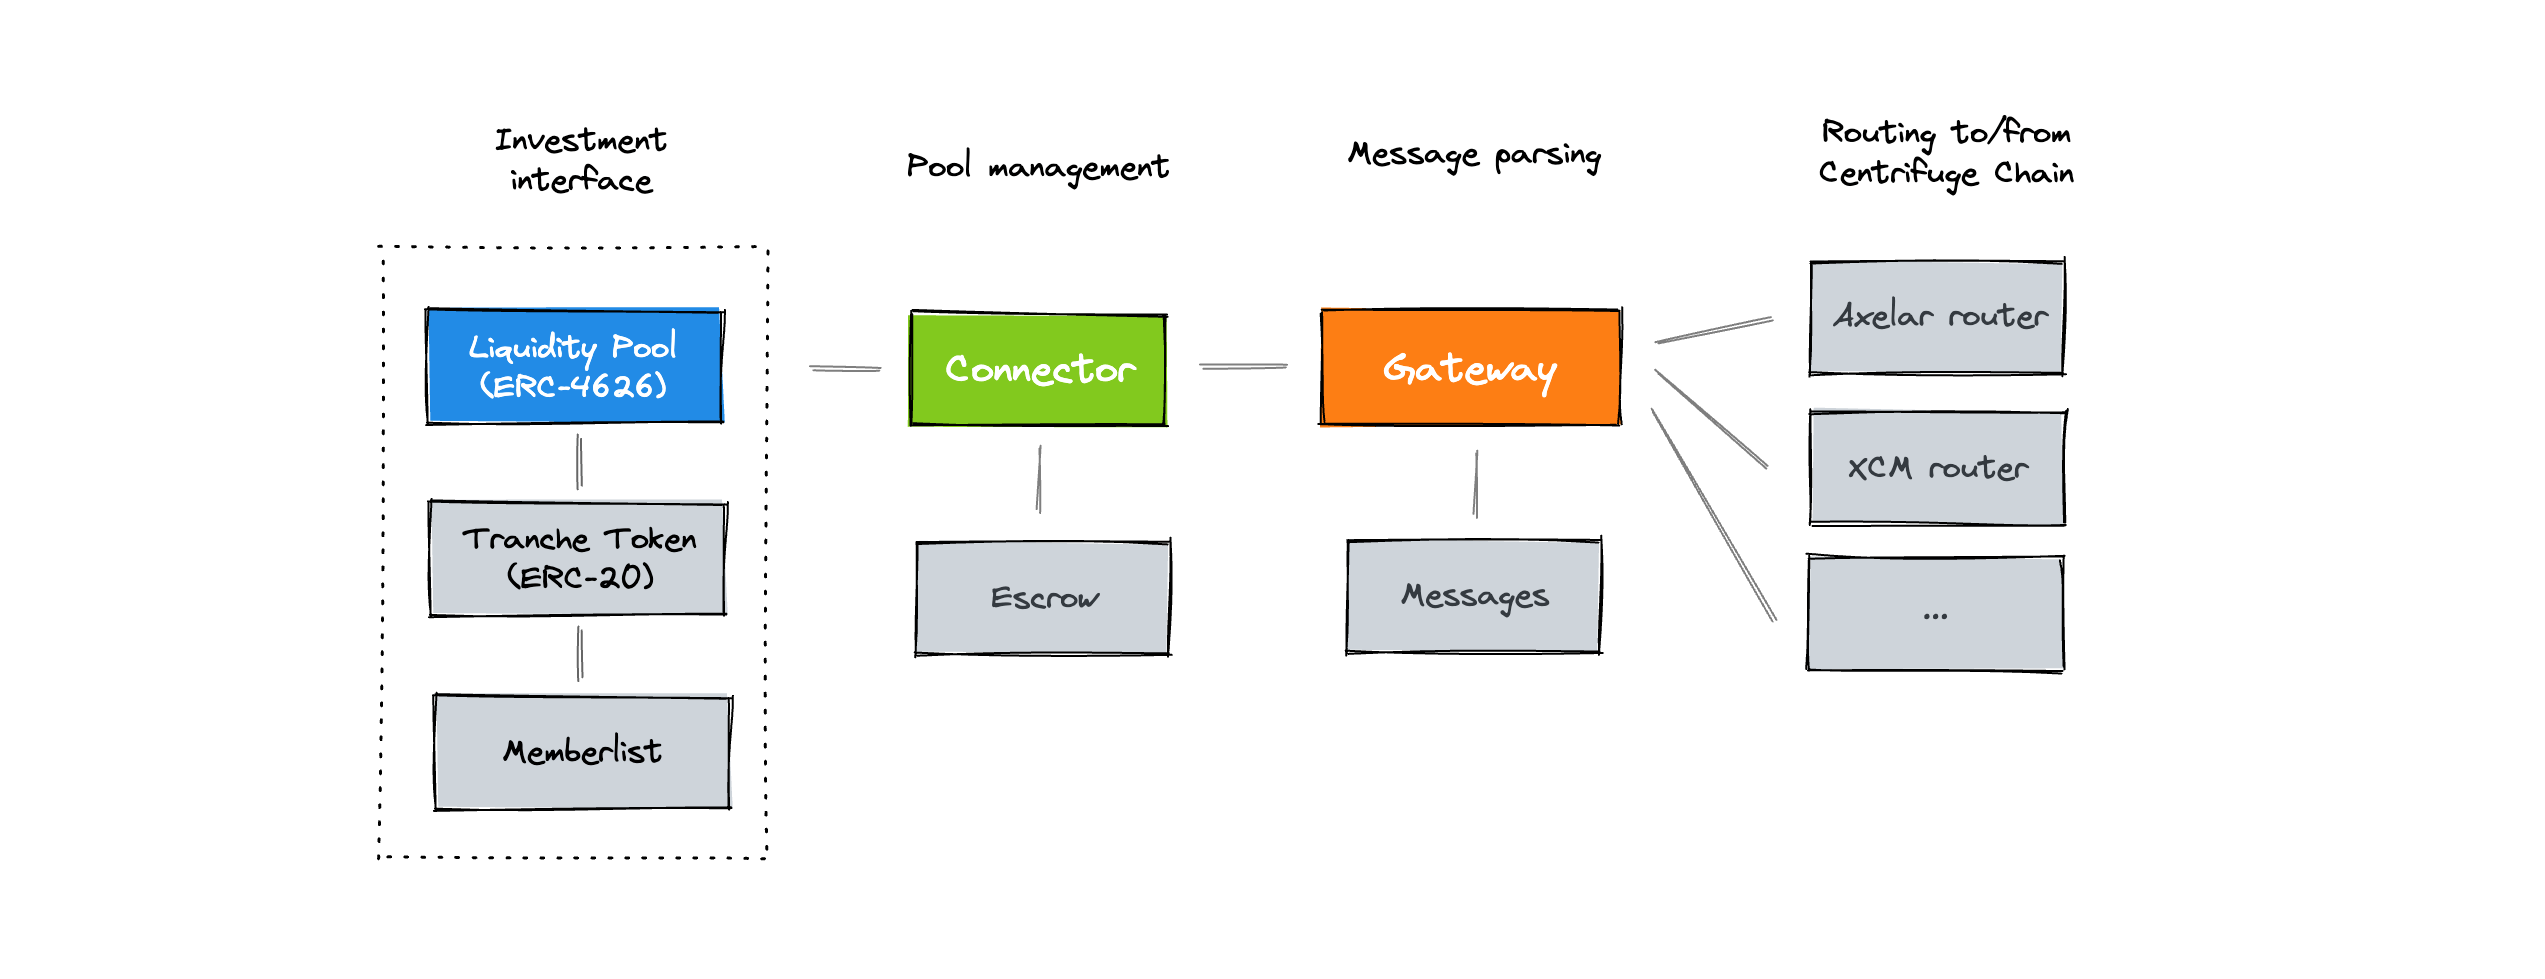
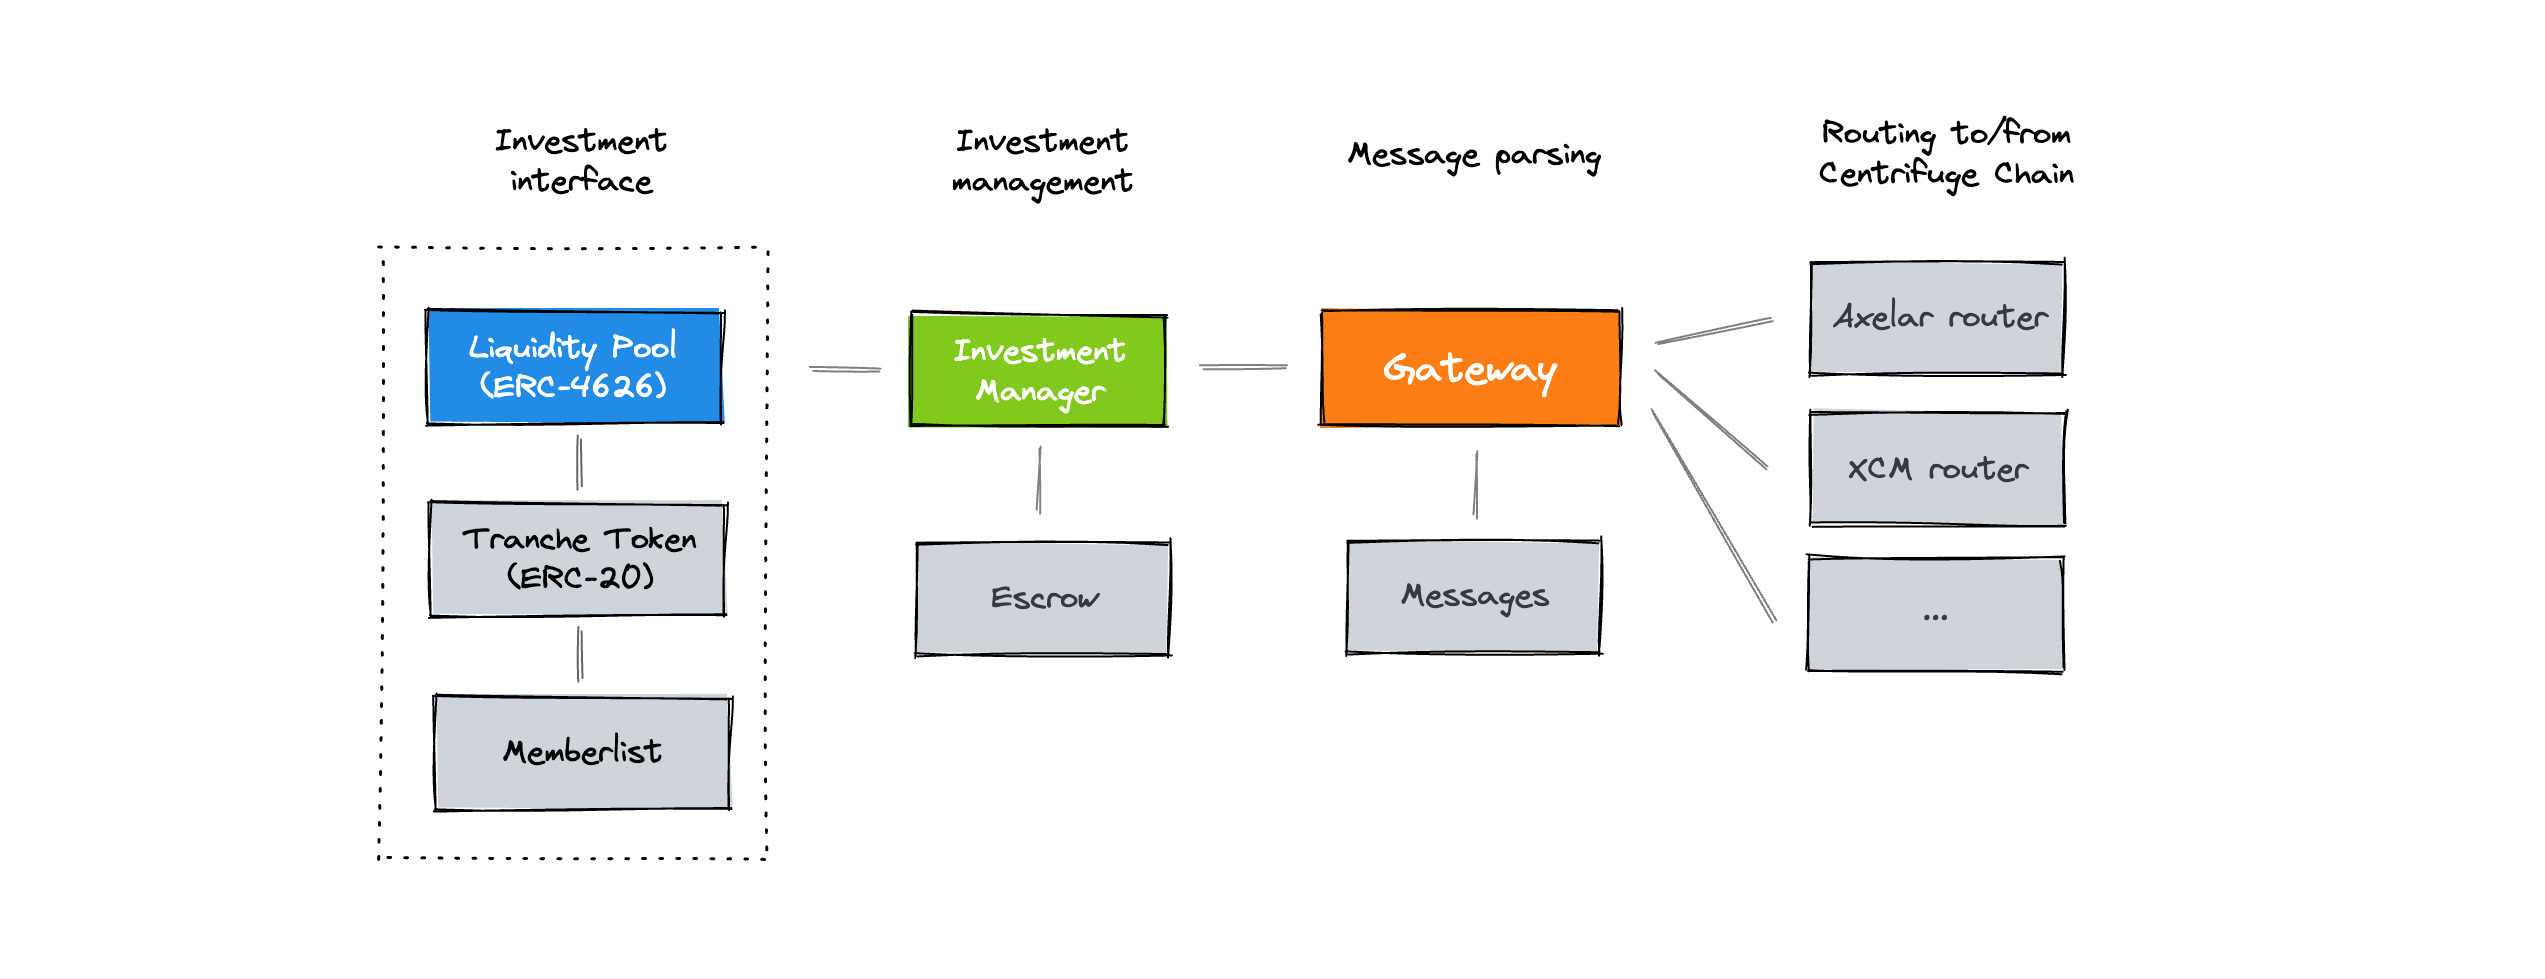
Update README.md (#75)
* Update README.md

* Update image

diff --git a/README.md b/README.md
@@ -1,19 +1,19 @@
-# Connectors
-Connectors enables seamless deployment of Centrifuge RWA pools on any EVM-compatible blockchain.
+# Liquidity Pools
+Liquidity Pools enable seamless deployment of Centrifuge RWA pools on any EVM-compatible blockchain.
 
 ## How it works
-<a href="https://github.com/centrifuge/connectors">
+<a href="https://github.com/centrifuge/liquidity-pools">
   <img alt="Centrifuge" src="contracts.png">
 </a>
 
 Investors can invest in multiple tranches for each RWA pool. Each of these tranches is a separate deployment of an Liquidity Pool and a Tranche Token.
-- **Liquidity Pool** (WIP): A [ERC-4626](https://ethereum.org/en/developers/docs/standards/tokens/erc-4626/) compatible contract that enables investors to deposit and withdraw stablecoins to invest in tranches of pools.
-- [**Tranche Token**](https://github.com/centrifuge/connectors/blob/main/src/token/restricted.sol): An [ERC-20](https://ethereum.org/en/developers/docs/standards/tokens/erc-20/) token for the tranche, linked to a [`Memberlist`](https://github.com/centrifuge/connectors/blob/main/src/token/memberlist.sol) that manages transfer restrictions.
+- **Liquidity Pool**: A [ERC-4626](https://ethereum.org/en/developers/docs/standards/tokens/erc-4626/) compatible contract that enables investors to deposit and withdraw stablecoins to invest in tranches of pools.
+- [**Tranche Token**](https://github.com/centrifuge/liquidity-pools/blob/main/src/token/restricted.sol): An [ERC-20](https://ethereum.org/en/developers/docs/standards/tokens/erc-20/) token for the tranche, linked to a [`Memberlist`](https://github.com/centrifuge/liquidity-pools/blob/main/src/token/memberlist.sol) that manages transfer restrictions.
 
-The deployment of these tranches and the management of investments is controlled by the underlying Connector, Gateway, and Routers.
-- [**Connector**](https://github.com/centrifuge/connectors/blob/main/src/Connector.sol): The core business logic contract that handles pool creation, tranche deployment, managing investments and sending tokens to the [`Escrow`](https://github.com/centrifuge/connectors/blob/main/src/Escrow.sol), and more.
-- [**Gateway**](https://github.com/centrifuge/connectors/blob/main/src/routers/Gateway.sol): Intermediary contract that encodes and decodes messages using [`Messages`](https://github.com/centrifuge/connectors/blob/main/src/Messages.sol) and perform validations such as rate limits.
-- [**Routers**](https://github.com/centrifuge/connectors/tree/main/src/routers): Contracts that handle communication of messages to and from Centrifuge Chain.
+The deployment of these tranches and the management of investments is controlled by the underlying InvestmentManager, Gateway, and Routers.
+- [**InvestmentManager**](https://github.com/centrifuge/liquidity-pools/blob/main/src/Connector.sol): The core business logic contract that handles pool creation, tranche deployment, managing investments and sending tokens to the [`Escrow`](https://github.com/centrifuge/liquidity-pools/blob/main/src/Escrow.sol), and more.
+- [**Gateway**](https://github.com/centrifuge/liquidity-pools/blob/main/src/routers/Gateway.sol): Intermediary contract that encodes and decodes messages using [`Messages`](https://github.com/centrifuge/liquidity-pools/blob/main/src/Messages.sol) and perform validations such as rate limits.
+- [**Routers**](https://github.com/centrifuge/liquidity-pools/tree/main/src/routers): Contracts that handle communication of messages to and from Centrifuge Chain.
 
 ## Developing
 #### Getting started
